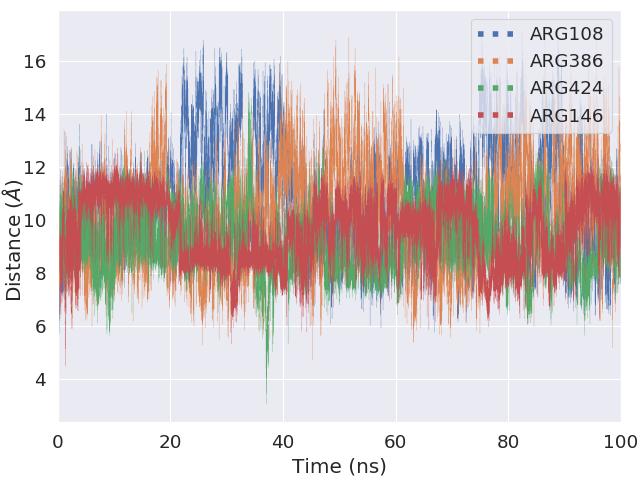
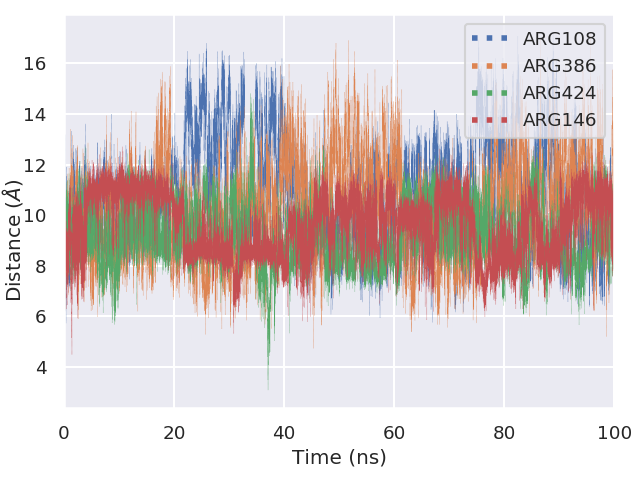
Updated distance figures

diff --git a/MD/base_id.py b/MD/base_id.py
@@ -16,13 +16,13 @@ import pandas as pd
 from Honours.MD.config import MD_PATH, SINGLE_PLOT_WIDTH, SINGLE_PLOT_HEIGHT, SINGLE_PLOT_LEG_WIDTH, \
     SINGLE_PLOT_LEG_HEIGHT, FOUR_PLOTS_WIDTH, FOUR_PLOTS_HEIGHT, SIX_PLOTS_WIDTH, SIX_PLOTS_HEIGHT
 
-sns.set(context='paper', font_scale=1.5)
+sns.set(context='talk', font_scale=0.8)
 CURR_DIR = os.getcwd()
 
 
 if __name__ == "__main__":
 
-    sort_dict, dist_thresh, inhibitor, system_type, num_subplots = False, 10, 1, "noncov_H", 6
+    sort_dict, dist_thresh, inhibitor, system_type, num_subplots = False, 10, 3, "noncov_H", 6
 
     for i in [1, 2]:
 
@@ -99,7 +99,8 @@ if __name__ == "__main__":
         # num_row, subplot_index = int(num_subplots / 2), 0
         # fig, axes = plt.subplots(nrows=num_row, ncols=2, sharex=True, sharey=True, figsize=(PLOTS_WIDTH, PLOTS_HEIGHT))
         fig = plt.figure()
-        fig.subplots_adjust(top=0.98, bottom=0.12, left=0.09, right=0.97, wspace=0.15, hspace=0.15)
+        # fig.subplots_adjust(top=0.98, bottom=0.12, left=0.09, right=0.97, wspace=0.15, hspace=0.15)
+        fig.subplots_adjust(top=0.97, bottom=0.15, left=0.1, right=0.96, wspace=0.15, hspace=0.15)
         # fig.suptitle(r"Distance of Charged Residues of Interest from {0} H".format(target_H), horizontalalignment='center',
         #              fontsize=14, weight='bold')
         # fig.text(0.5, 0.02, "Time (ns)", va='center', ha='center')
